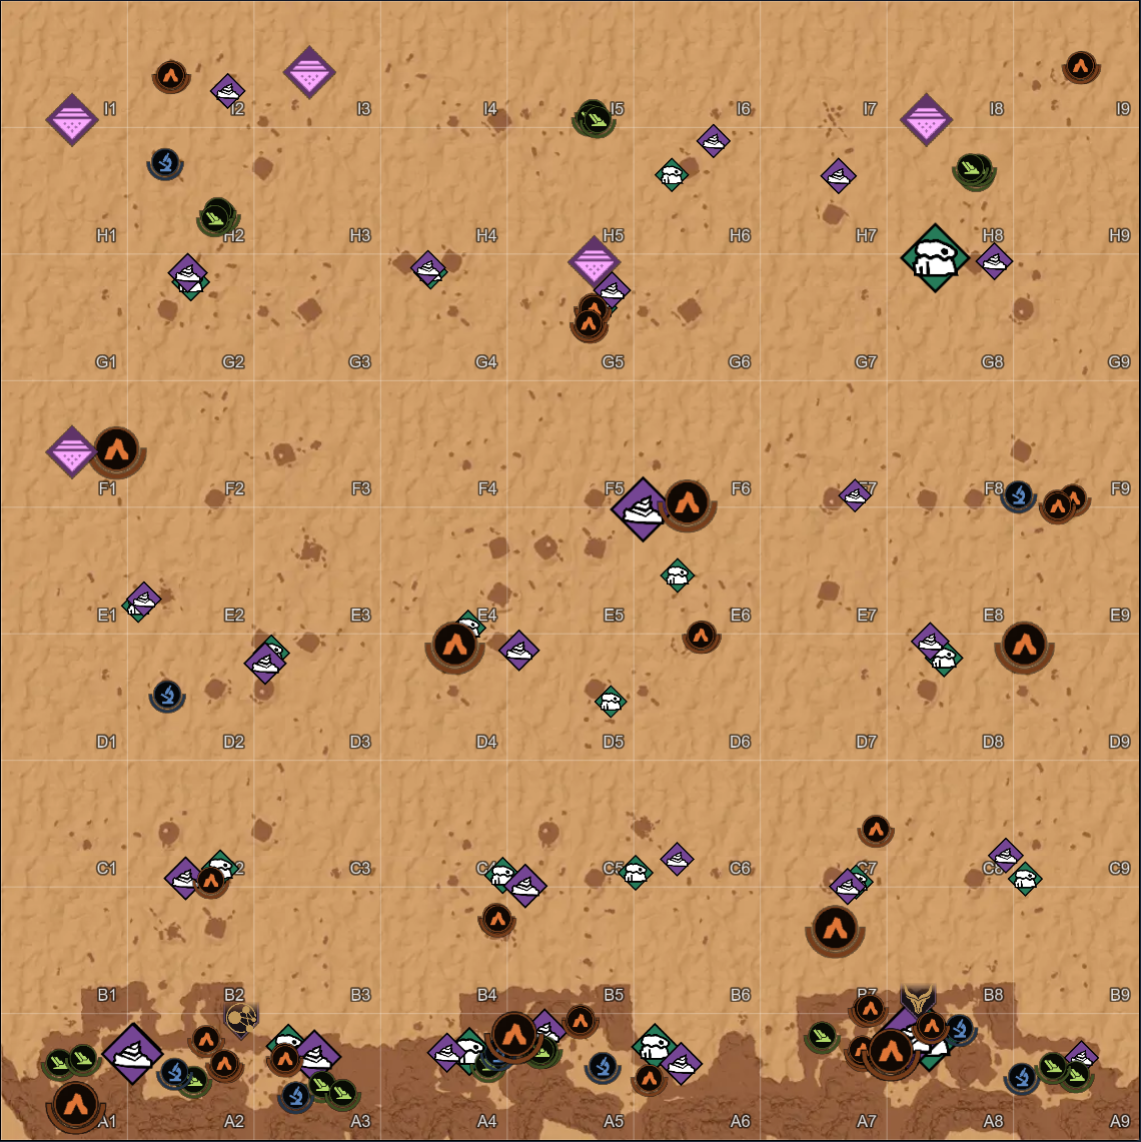
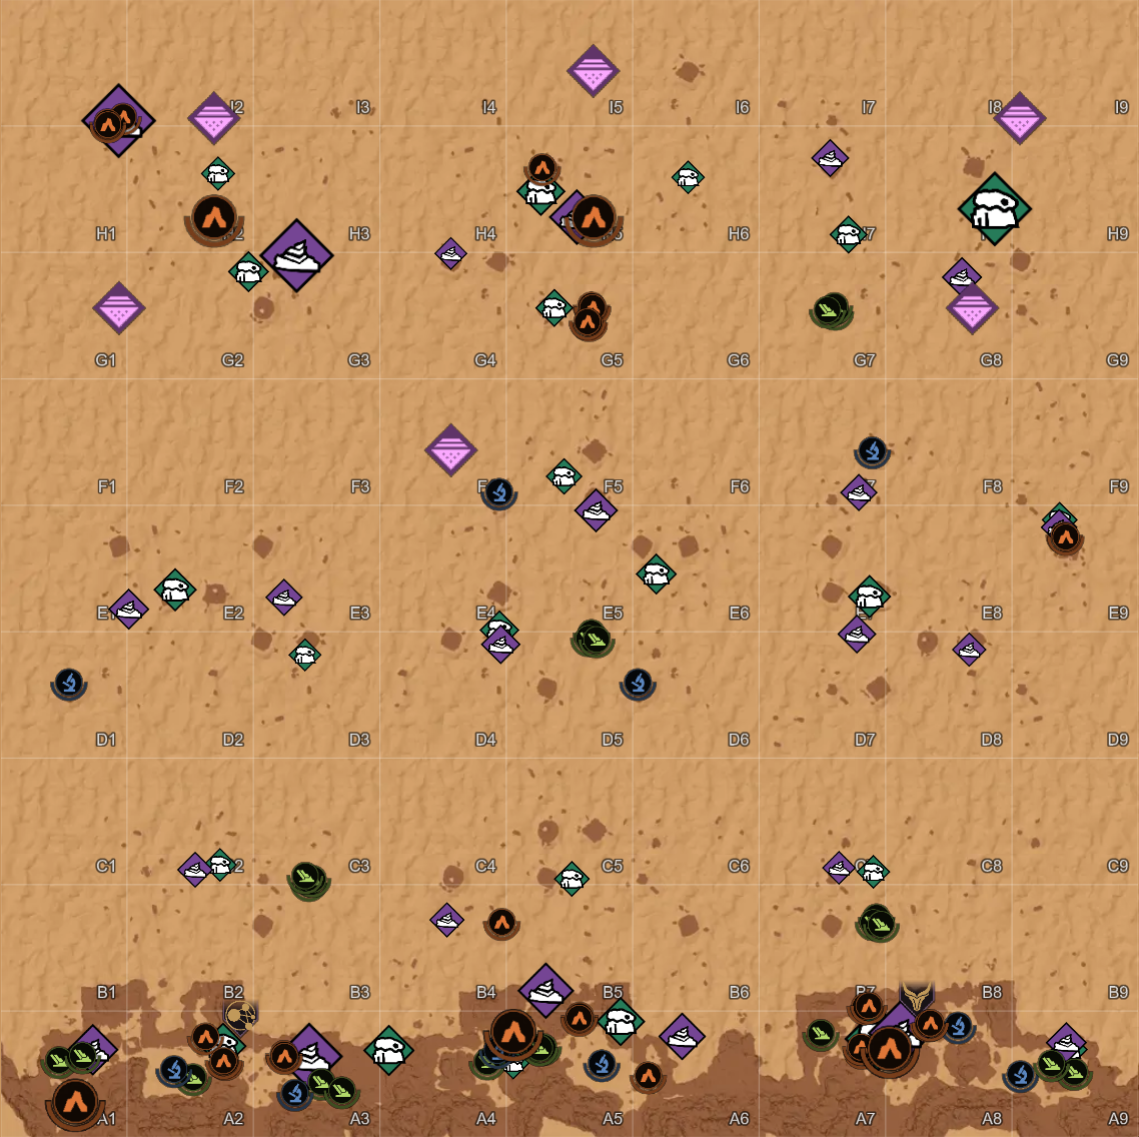
Add files via upload

diff --git a/index.html b/index.html
@@ -949,7 +949,7 @@ The transition from a lethal pair to a commanding power began with the induction
         Deep <span style="color: var(--blood-red);">Desert</span>
     </h2>
     <p style="color: var(--text-muted); font-family: 'Courier New', monospace; font-size: 0.9rem; margin-top: 8px; letter-spacing: 1px;">
-        Active Map: August 11 -> August 17
+        Active Map: August 18 -> August 24
     </p>
 </section>
 
